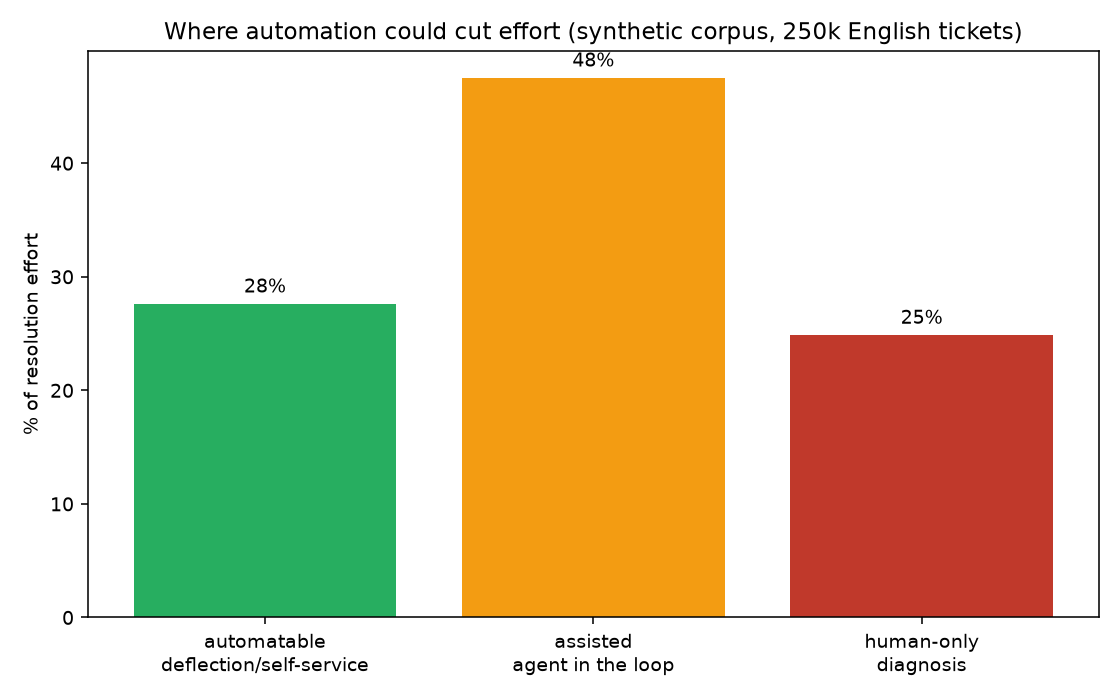
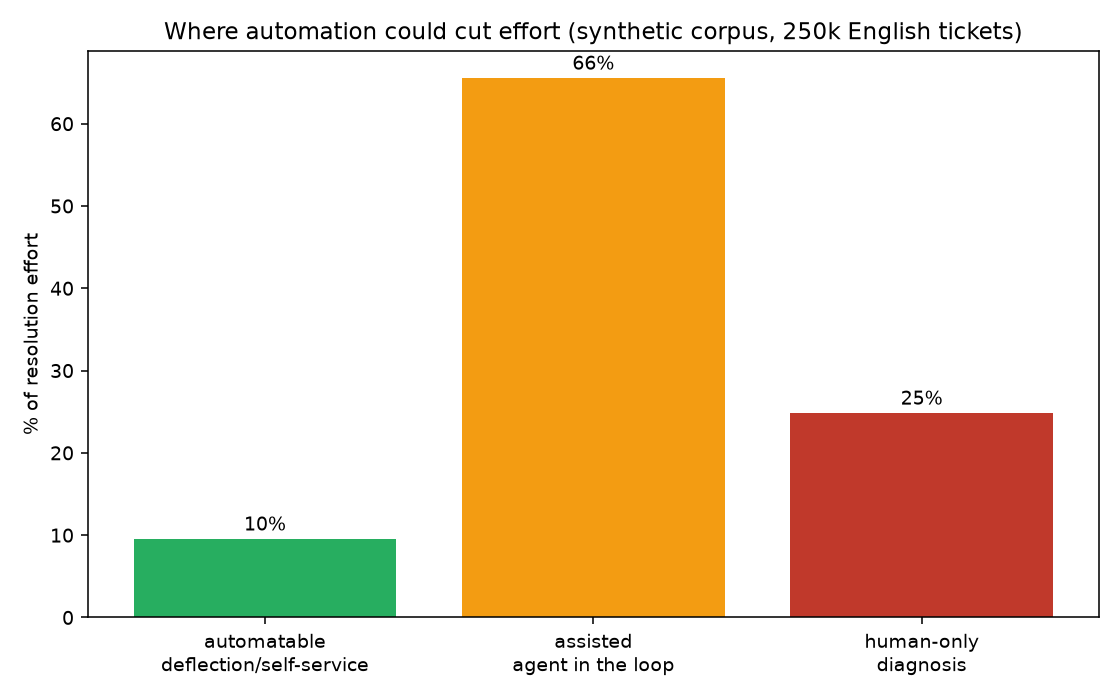
fix(phase 2): per-intent feasibility, corrected savings range
- Feasibility was set per family, so six slow, ~80%-escalated intents
  (billing dispute, recover deleted account, unexpected renewal, ...)
  counted as automatable and held 65% of the "automatable" hours.
  They now move to assisted when median >= 15 h or SLA breach >= 30%.
- Savings at 40/60/80% automation: 3.8/5.7/7.7% of elapsed effort
  (was 11.0/16.6/22.1%). Split: automatable 9.6% (31% of tickets),
  assisted 65.6%, human-only 24.9%.
- Removed the HDBSCAN claim (no script produced it), fixed "eight
  category labels" (11 families), replaced the unsourced ServiceNow
  figure with the phase-1 count, restored the phone headline.

diff --git a/scripts/03_intents.py b/scripts/03_intents.py
@@ -105,7 +105,20 @@ tab = df.groupby(["family", "intent"]).agg(
     sla_breach=("sla_breached", "mean"),
     escalated=("escalated", "mean"),
 ).reset_index()
-tab["feasibility"] = tab["family"].map(FEASIBILITY)
+tab["family_default"] = tab["family"].map(FEASIBILITY)
+# The family label is only a starting point. An intent in an "automatable" family
+# that is slow or often misses its SLA is evidence that a person handles it
+# (billing disputes, recovering deleted accounts, unexpected renewals), so it is
+# moved to "assisted". Without this step 65% of the "automatable" hours came from
+# six slow, ~80%-escalated intents and the savings range was overstated ~3x.
+SLOW_H = 15      # median resolution hours
+BREACH = 0.30    # SLA breach rate
+needs_person = (tab["median_res_h"] >= SLOW_H) | (tab["sla_breach"] >= BREACH)
+tab["feasibility"] = tab["family_default"].where(
+    ~((tab["family_default"] == "automatable") & needs_person), "assisted")
+moved = tab[tab["feasibility"] != tab["family_default"]]
+print(f"\nmoved from automatable to assisted (median >= {SLOW_H} h or SLA breach >= {BREACH:.0%}):")
+print(moved[["intent", "median_res_h", "sla_breach", "escalated"]].to_string(index=False))
 tab["share_of_volume"] = tab["tickets"] / tab["tickets"].sum()
 tab["share_of_effort"] = tab["total_h"] / tab["total_h"].sum()
 tab = tab.sort_values("total_h", ascending=False).reset_index(drop=True)
@@ -120,14 +133,14 @@ tab.to_csv(OUT / "data/intents_economics.csv", index=False)
 fam = tab.groupby("family").agg(
     tickets=("tickets", "sum"), total_h=("total_h", "sum"),
     median_res_h=("median_res_h", "median"), sla_breach=("sla_breach", "mean"),
-    escalated=("escalated", "mean"), feasibility=("feasibility", "first"),
+    escalated=("escalated", "mean"), family_default=("family_default", "first"),
 ).sort_values("total_h", ascending=False)
 fam["share_of_volume"] = (fam["tickets"] / fam["tickets"].sum()).round(3)
 fam["share_of_effort"] = (fam["total_h"] / fam["total_h"].sum()).round(3)
 fam.to_csv(OUT / "data/effort_by_intent_family.csv")
 
 print("\n=== effort by intent family ===")
-print((fam[["tickets", "share_of_volume", "median_res_h", "share_of_effort", "sla_breach", "escalated", "feasibility"]])
+print((fam[["tickets", "share_of_volume", "median_res_h", "share_of_effort", "sla_breach", "escalated", "family_default"]])
       .assign(sla_breach=lambda d: (d.sla_breach * 100).round(1), escalated=lambda d: (d.escalated * 100).round(1),
               share_of_volume=lambda d: (d.share_of_volume * 100).round(1), share_of_effort=lambda d: (d.share_of_effort * 100).round(1))
       .to_string())
@@ -140,10 +153,14 @@ print(tab.head(12)[["intent", "tickets", "share_of_volume", "median_res_h", "sha
               sla_breach=lambda d: (d.sla_breach * 100).round(1),
               escalated=lambda d: (d.escalated * 100).round(1)).to_string(index=False))
 
-auto_h = fam.loc[fam["feasibility"] == "automatable", "total_h"].sum()
-assist_h = fam.loc[fam["feasibility"] == "assisted", "total_h"].sum()
-human_h = fam.loc[fam["feasibility"] == "human-only", "total_h"].sum()
-tot_h = fam["total_h"].sum()
+# split and savings use the per-intent label, not the family default
+auto_h = tab.loc[tab["feasibility"] == "automatable", "total_h"].sum()
+assist_h = tab.loc[tab["feasibility"] == "assisted", "total_h"].sum()
+human_h = tab.loc[tab["feasibility"] == "human-only", "total_h"].sum()
+tot_h = tab["total_h"].sum()
+auto_vol = tab.loc[tab["feasibility"] == "automatable", "tickets"].sum() / tab["tickets"].sum()
+print(f"automatable intents: {(tab['feasibility'] == 'automatable').sum()} of {len(tab)}, "
+      f"{auto_vol:.1%} of tickets")
 print(f"\neffort split: automatable {auto_h/tot_h:.1%} | assisted {assist_h/tot_h:.1%} | human-only {human_h/tot_h:.1%}")
 for pct in (0.4, 0.6, 0.8):
     saved = auto_h * pct
@@ -190,7 +207,11 @@ json.dump({
     "effort_split": {"automatable_pct": round(auto_h/tot_h*100, 1),
                      "assisted_pct": round(assist_h/tot_h*100, 1),
                      "human_only_pct": round(human_h/tot_h*100, 1),
-                     "total_elapsed_hours": round(float(tot_h), 0)},
+                     "total_elapsed_hours": round(float(tot_h), 0),
+                     "automatable_volume_pct": round(float(auto_vol) * 100, 1),
+                     "rule": f"family default, but an automatable-family intent with median >= {SLOW_H} h "
+                             f"or SLA breach >= {BREACH:.0%} is assisted",
+                     "moved_to_assisted": moved["intent"].tolist()},
     "savings_pct_of_total_effort": {f"{int(p*100)}pct_automation": round(float(auto_h*p/tot_h*100), 1)
                                     for p in (0.4, 0.6, 0.8)},
 }, open(OUT / "data/phase2_metrics.json", "w"), indent=2)

diff --git a/FINDINGS-PHASE2.md b/FINDINGS-PHASE2.md
@@ -2,7 +2,7 @@
 
 **Source:** `s2pidape/support-ticket-dataset` (synthetic, English slice = **250,599 tickets**, **100 issue types** in **11 families**), with resolution hours, SLA-breach flag and escalation flag per ticket.
 
-**Method:** template boilerplate stripped → TF-IDF (1–2 grams) → SVD(150) → k-means (k=100). Phase-1-style discovery on the same text with HDBSCAN produced 88 clusters at 7.1% noise, so the structure is not an artefact of choosing k. Intent economics then come from the labels the clustering proved recoverable from text.
+**Method:** template boilerplate stripped → TF-IDF (1–2 grams) → SVD(150) → k-means (k=100). Intent economics then come from the labels the clustering proved recoverable from text. Automation feasibility is set per intent (section 3).
 
 ---
 
@@ -13,7 +13,7 @@
 | Top 10 intents | 11.0% | **42.6%** |
 | 11 families | evenly spread (~9% each) | 4.4%–17.7% |
 
-At family granularity the corpus looks flat — every family is ~9% of volume. At intent granularity it is sharply skewed: ten intents carry 42.6% of the time. A dashboard built on the eight category labels would show nothing to act on.
+At family granularity the corpus looks flat — every family is ~9% of volume. At intent granularity it is sharply skewed: ten intents carry 42.6% of the time. A dashboard built on the 11 family labels would show nothing to act on.
 
 ## 2. The policy intents own the effort
 
@@ -23,25 +23,27 @@ At family granularity the corpus looks flat — every family is ~9% of volume. A
 
 The worst single intents by SLA breach are all policy or defect: data corruption 56.8%, security GDPR request 51.8%, delete-my-data 51.2%, refund-denied appeal 57.1%. Every one of the top-12 effort intents escalates at ~80%.
 
-## 3. The automatable work is fast; the expensive work is not automatable
+## 3. The automatable work is fast — and small in hours
+
+Feasibility starts from the family (authentication, onboarding, billing, subscription = automatable), then is checked **per intent**: any intent in those families with a median resolution of 15 h or more, or an SLA breach rate of 30% or more, is moved to *assisted*. Six intents move: billing dispute, payment deducted but failed, recover deleted account, unexpected renewal, cancel without request, training request. They take 15–31 h at the median and ~80% of them escalate, so a self-service flow would not close them. Before this check they held 65% of the "automatable" hours.
 
 Effort split by feasibility class:
 
-- **automatable — 27.6%** of effort (authentication, onboarding, billing, subscription)
-- **assisted — 47.5%** (account changes, security requests, refunds, integrations)
+- **automatable — 9.6%** of effort, from **31% of tickets** (password/MFA resets, invoice copies, plan changes, how-to)
+- **assisted — 65.6%** (account changes, security requests, refunds, integrations, and the six moved intents)
 - **human-only — 24.9%** (bugs, data corruption, performance)
 
 Savings on total elapsed effort at 40 / 60 / 80% automation of the automatable share:
 
 | scenario | effort removed |
 |---|---|
-| 40% | 11.0% |
-| 60% | 16.6% |
-| 80% | 22.1% |
+| 40% | 3.8% |
+| 60% | 5.7% |
+| 80% | 7.7% |
 
-But note *where* the automatable effort sits: onboarding has a median of **0.42 h** and a 1.1% breach rate; authentication 2.06 h. These intents are cheap per ticket — so automating them cuts **contact volume** (and queue pressure) far more than it cuts elapsed hours. The very intents that dominate elapsed time are the ones no chatbot will close.
+The automatable intents are cheap per ticket (no intent left in the class has a median above 6.3 h or a breach rate above 7.4%), so automating them cuts **contact volume** — up to 31% of tickets — and queue pressure far more than it cuts elapsed hours. The intents that dominate elapsed time are the ones no chatbot will close.
 
-The largest prize is therefore not autonomy but the **47.5% assisted band** — agent-in-the-loop drafting, pre-filled forms, automatic evidence gathering for GDPR/refund workflows.
+The largest prize is therefore not autonomy but the **65.6% assisted band** — agent-in-the-loop drafting, pre-filled forms, automatic evidence gathering for GDPR/refund workflows.
 
 ## 4. Validation — and why it flatters
 
@@ -53,17 +55,17 @@ Clustering recovers the 100 issue types at **NMI 1.0, ARI 1.0, purity 1.0**. Tha
 
 1. **Synthetic corpus.** Distributions and phrasing are generated. Useful for method and for the shape of the argument, not as a market benchmark.
 2. **Elapsed time, not handle time.** `resolution_time_hours` is calendar time to resolution; it includes queueing. Savings are quoted as a share of elapsed effort for exactly this reason — no FTE claim is made, because the dataset has no agent-touch measure.
-3. **Feasibility is a judgement, not a model output.** Each family is mapped to automatable / assisted / human-only in code (one dict, fully visible), and the mapping is debatable — `onboarding_training_request` is classified automatable although a human trainer may be needed.
-4. **One company's taxonomy.** 100 issue types in 11 families is this generator's design; a real ServiceNow instance typically carries 500–2,000 category/subcategory pairs, which is itself a finding (see action 1).
+3. **Feasibility is a judgement, not a model output.** Each family gets a default class in code (one dict, fully visible), and two visible thresholds (median ≥ 15 h, SLA breach ≥ 30%) move slow automatable-family intents to *assisted*. Both the mapping and the thresholds are debatable; the moved intents are listed in `data/phase2_metrics.json`.
+4. **One company's taxonomy.** 100 issue types in 11 families is this generator's design. Real instances are usually far more fragmented — the phase-1 log alone has 54 categories and 245 subcategories — which is itself a finding (see action 1).
 
 ## Three actions
 
-1. **Collapse the taxonomy before analysing it.** An instance with 1,000+ category pairs cannot produce a priority list; a 20–30 intent taxonomy over the same tickets can. Building that intent layer is a two-week exercise with an admin and a service manager, and it makes every later automation decision arguable with data.
-2. **Automate the fast lane** — authentication, onboarding, subscription, billing. Low median time per ticket, so the win is volume and queue relief, not hours. Measure deflection rate and re-open rate, not just contacts avoided.
+1. **Collapse the taxonomy before analysing it.** An instance with hundreds of category pairs (245 subcategories in the phase-1 log) cannot produce a priority list; a 20–30 intent taxonomy over the same tickets can. Building that intent layer is a two-week exercise with an admin and a service manager, and it makes every later automation decision arguable with data.
+2. **Automate the fast lane** — resets, invoice copies, plan changes, how-to questions. Low median time per ticket, so the win is volume (31% of tickets) and queue relief, not hours (under 8% even at 80% automation). Measure deflection rate and re-open rate, not just contacts avoided.
 3. **Attack the policy intents with workflow, not AI.** Security and refunds are 33% of effort with ~21% SLA breach. Templates, pre-filled evidence packs, approval routing and clear decision rules remove elapsed time here far more reliably than a model would.
 
 ## What would have to be true
 
 - The feasibility mapping matches your real intents (spot-check 30 tickets per family)
 - Deflected contacts do not reappear as reopens or escalations — measure both, with a control group
-- The 47.5% assisted band can be served with an agent still owning the decision — that is a workflow and governance question, not a model question
+- The 65.6% assisted band can be served with an agent still owning the decision — that is a workflow and governance question, not a model question

diff --git a/README.md b/README.md
@@ -14,14 +14,15 @@ Two datasets, one question, answered in numbers: effort per contact driver, the 
 - Top 10 categories = **69% of volume but 79% of elapsed effort**
 - **32% of tickets** close in under an hour but hold **~0% of the hours**; **35%** run ≥72 h and hold **96%**
 - **49% of incidents** are reassigned; they contain **73% of all elapsed hours** (median 79.9 h vs 0.7 h)
+- **99% of contacts are phone**, 0.7% self-service
 - **62% of resolved incidents met SLA** — but only **9% of Critical** and **1% of High**; 46% when reassigned vs 77% when not
 
 **Phase 2 — named intents** (250,599 English tickets, 100 issue types)
 
 - Top 10 intents = **11% of volume but 42.6% of effort**
 - Two families — **security (17.7%)** and **refunds (15.7%)** — are **33% of effort from 17% of volume**, and are policy work, not technical
-- Effort split: **automatable 27.6%**, **assisted 47.5%**, **human-only 24.9%**
-- Automating 40 / 60 / 80% of the automatable share removes **11% / 17% / 22%** of total elapsed effort — and the automatable intents are the *fast* ones, so the real win there is contact volume, not hours
+- Effort split: **automatable 9.6%** (from 31% of tickets), **assisted 65.6%**, **human-only 24.9%**
+- Automating 40 / 60 / 80% of the automatable share removes **4% / 6% / 8%** of total elapsed effort — the automatable intents are the *fast* ones, so the real win there is contact volume, not hours
 
 ## Data
 
@@ -69,7 +70,7 @@ charts/feasibility_split.png
 
 - **Cycle time, not handle time.** Elapsed = opened → resolved, which includes queue and waiting. It is the right measure for service cost, the wrong one for headcount; reassignment count is used as a second, touch-based proxy.
 - **SLA = final state.** `made_sla` is read from each incident's last event, because the flag flips to False once the SLA is breached. (An earlier version took `max()` over events and reported 100% attainment — an aggregation bug.)
-- **Feasibility is a documented judgement**, not model output: one explicit dict in `scripts/03_intents.py` maps each family to automatable / assisted / human-only.
+- **Feasibility is a documented judgement**, not model output: one explicit dict in `scripts/03_intents.py` gives each family a default, and any automatable-family intent with a median of 15 h or more or an SLA breach of 30% or more is moved to *assisted*. (An earlier version labelled whole families and reported 11–22% savings; 65% of those "automatable" hours were six slow, ~80%-escalated intents.)
 - **Boilerplate stripping matters.** The synthetic corpus repeats stock phrases; without removing them, clusters form around "Hi team" rather than around the problem being reported.
 - **Validation is flattering and flagged as such.** Text recovers the 100 issue types at NMI 1.0 *because* the generator writes one canonical sentence per type — evidence the pipeline works, not evidence about messy real text.
 
